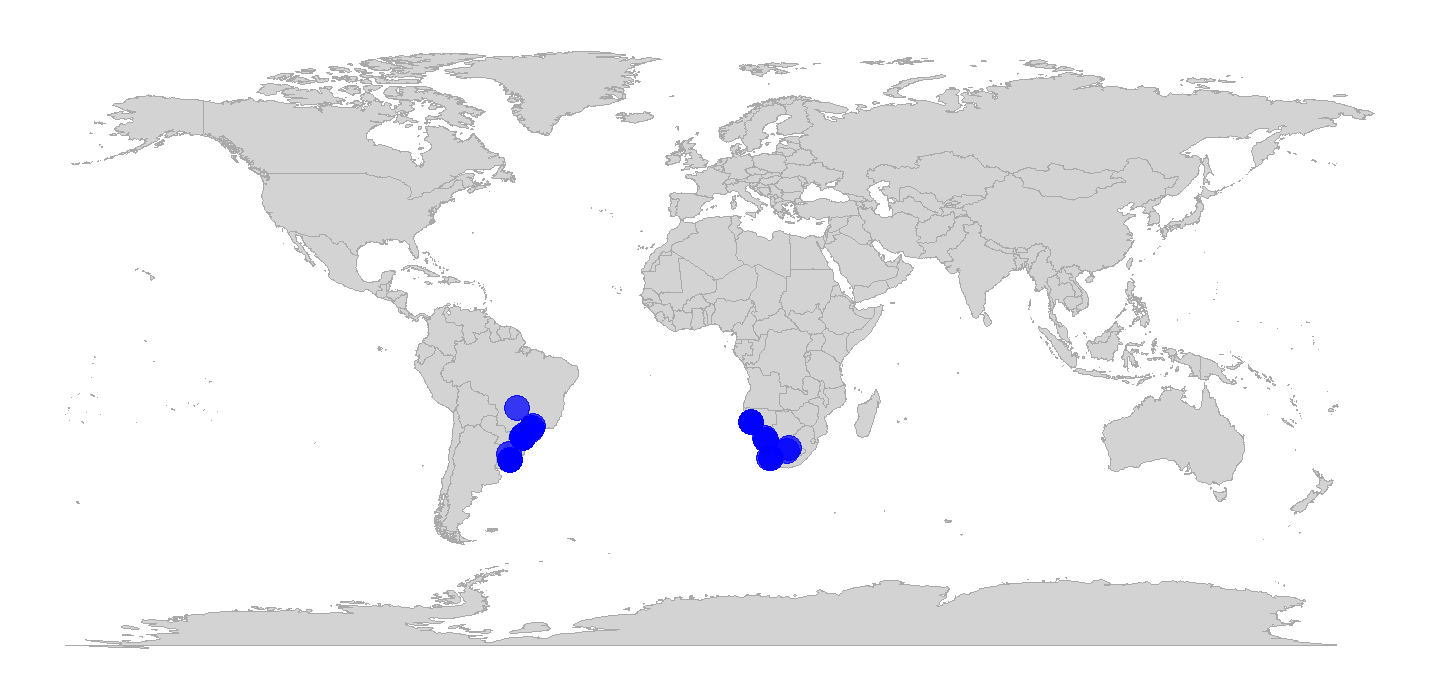
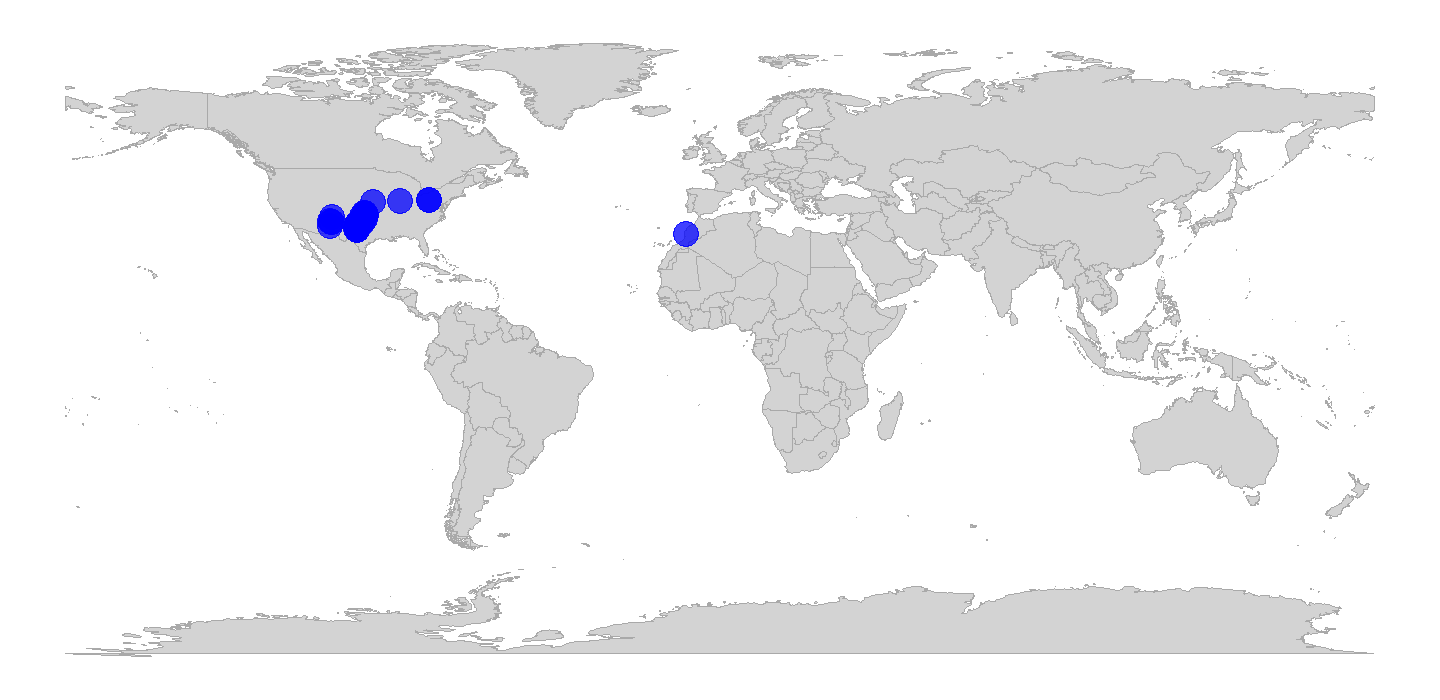
Add warning when size is too small (#88)
* Add warning when size is too small

* Update vignette and add projection example

* Update R/geom_phylopic.R

---------

diff --git a/NEWS.md b/NEWS.md
@@ -1,6 +1,7 @@
 # rphylopic (development version)
 
 * updated citation
+* added warning when specified size is more than 1000 times smaller than the y-axis range (mostly useful for when making maps with coord_sf) (#86)
 
 # rphylopic 1.2.2
 
